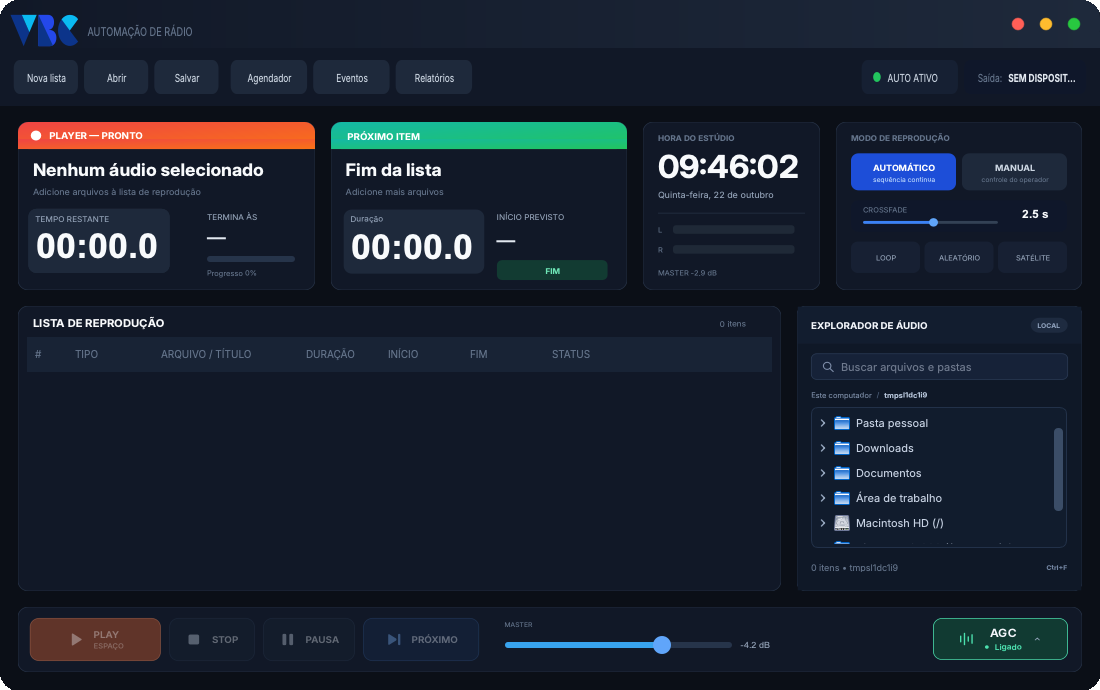
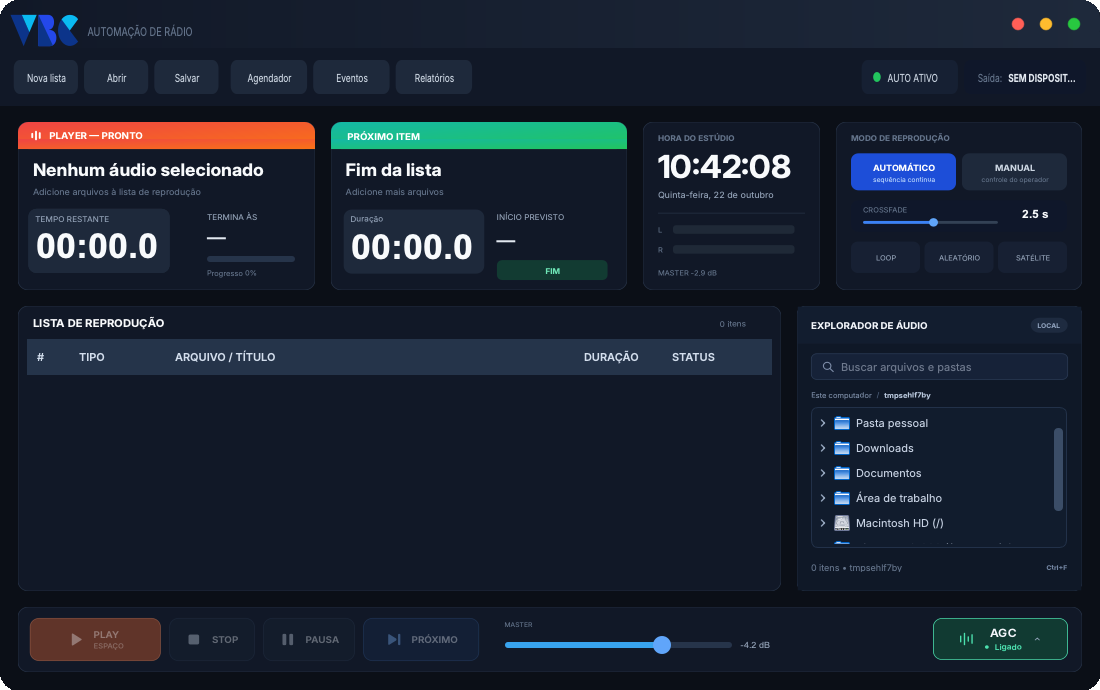
correção na visualização

Changed region(s): [[0.0309, 0.487, 0.7109, 0.5478], [0.5873, 0.213, 0.7418, 0.2739]]

diff --git a/vbc_player/pages/player/widgets/playlist.py b/vbc_player/pages/player/widgets/playlist.py
@@ -1,9 +1,9 @@
 from pathlib import Path
 
 from PySide6.QtCore import QRectF, Qt, Signal
-from PySide6.QtGui import QColor
+from PySide6.QtGui import QColor, QFont, QFontMetricsF, QPainter, QPen
 from PySide6.QtWidgets import (
-    QAbstractItemView, QFileDialog, QStyledItemDelegate,
+    QAbstractItemView, QFileDialog, QHeaderView, QStyledItemDelegate,
     QTableWidget, QTableWidgetItem,
 )
 
@@ -73,12 +73,28 @@ class PlaylistItemDelegate(QStyledItemDelegate):
         color = background.color() if background is not None else QColor("#111827")
         painter.save()
         painter.fillRect(option.rect, color)
-        painter.setPen(QColor("#cbd5e1"))
-        painter.drawText(
-            option.rect.adjusted(8, 0, -8, 0),
-            Qt.AlignmentFlag.AlignLeft | Qt.AlignmentFlag.AlignVCenter,
-            str(index.data(Qt.ItemDataRole.DisplayRole) or ""),
-        )
+        painter.setPen(QPen(QColor("#29364a"), 1))
+        painter.drawLine(option.rect.bottomLeft(), option.rect.bottomRight())
+        column = index.column()
+        font = QFont(option.font)
+        font.setPixelSize(14 if column == 2 else 12 if column in (0, 1, 6) else 13)
+        font.setWeight(QFont.Weight.DemiBold if column in (1, 2, 6) else QFont.Weight.Medium)
+        painter.setFont(font)
+        value = str(index.data(Qt.ItemDataRole.DisplayRole) or "")
+        rect = option.rect.adjusted(10, 0, -10, 0)
+        text_color = "#f1f5f9" if column == 2 else "#d3deed"
+        alignment = Qt.AlignmentFlag.AlignLeft if column in (1, 2) else Qt.AlignmentFlag.AlignHCenter
+        if column == 6:
+            painter.setRenderHint(QPainter.RenderHint.Antialiasing)
+            badge = QRectF(rect.x(), rect.center().y() - 12, rect.width(), 24)
+            background, text_color = {"NO AR": ("#6d293b", "#ffe1e6"), "PRÓXIMO": ("#155542", "#9af2cf")}.get(value, ("#25344a", "#d3deed"))
+            painter.setPen(Qt.PenStyle.NoPen)
+            painter.setBrush(QColor(background))
+            painter.drawRoundedRect(badge, 6, 6)
+            rect = rect.adjusted(5, 0, -5, 0)
+        painter.setPen(QColor(text_color))
+        value = QFontMetricsF(font).elidedText(value, Qt.TextElideMode.ElideRight, rect.width())
+        painter.drawText(rect, alignment | Qt.AlignmentFlag.AlignVCenter, value)
         painter.restore()
 
 
@@ -106,30 +122,41 @@ class PlaylistWidget(DesignPanel):
                 background: #111827;
                 border: 0;
                 padding: 0;
-                font-size: 11px;
+                font-size: 14px;
                 outline: 0;
                 selection-color: #f4f7fc;
             }
             QHeaderView::section {
-                background: #182335;
-                color: #64748b;
+                background: #25344a;
+                color: #d3deed;
                 border: 0;
-                padding: 8px;
-                font-size: 10px;
+                padding: 10px;
+                font-size: 11px;
+                font-weight: 600;
             }
             QTableWidget::item {
                 padding: 4px;
                 border: 0;
             }
+            QTableWidget QScrollBar:vertical{background:#131e2e;width:9px;margin:0;border:0;}
+            QTableWidget QScrollBar::handle:vertical{background:#526782;border-radius:4px;min-height:26px;}
+            QTableWidget QScrollBar::handle:vertical:hover{background:#7189a8;}
+            QTableWidget QScrollBar::add-line:vertical,QTableWidget QScrollBar::sub-line:vertical{
+                height:0;border:0;background:transparent;}
+            QTableWidget QScrollBar::add-page:vertical,QTableWidget QScrollBar::sub-page:vertical{
+                background:transparent;}
         """)
         self.table.horizontalHeader().setDefaultAlignment(Qt.AlignmentFlag.AlignLeft | Qt.AlignmentFlag.AlignVCenter)
-        self.table.horizontalHeader().setStretchLastSection(True)
+        self.table.horizontalHeader().setStretchLastSection(False)
+        self.table.horizontalHeader().setSectionResizeMode(QHeaderView.ResizeMode.Fixed)
+        self.table.horizontalHeader().setSectionResizeMode(2, QHeaderView.ResizeMode.Stretch)
+        self.table.horizontalHeader().setFixedHeight(36)
         self.table.setAccessibleName("Lista de reprodução")
         self.table.cellDoubleClicked.connect(lambda row, _col: service.play_index(row))
         self.table.itemSelectionChanged.connect(self._selected)
         self.table.hovered_row_changed.connect(self._hovered)
         self.table.paths_dropped.connect(self.add_tracks)
-        self.add_control(self.table, QRectF(12, 44, 986, 312))
+        self.add_control(self.table, QRectF(12, 46, 986, 342))
         self.table.hide()
         service.queue_changed.connect(self.refresh)
         self.setToolTip("Arraste arquivos de áudio ou pastas do explorador para adicionar à lista.")
@@ -180,7 +207,7 @@ class PlaylistWidget(DesignPanel):
             return QColor("#1e293b")
         if row == self.hovered_row:
             return QColor("#192538")
-        return QColor("#141d2b" if row % 2 == 0 else "#111827")
+        return QColor("#1b283b" if row % 2 == 0 else "#131e2e")
 
     def _apply_row_colors(self):
         for row in range(self.table.rowCount()):
@@ -203,13 +230,24 @@ class PlaylistWidget(DesignPanel):
             values = [f"{row+1:02d}", track.kind, track.title, duration, track.start, track.end, track.status]
             for col, value in enumerate(values):
                 item = QTableWidgetItem(value)
+                item.setToolTip(f"{track.title}\n{track.path}" if col == 2 and track.path else value)
                 self.table.setItem(row, col, item)
-            self.table.setRowHeight(row, 46)
+            self.table.setRowHeight(row, 52)
         self._apply_row_colors()
-        self.table.setColumnWidth(0, 40)
-        self.table.setColumnWidth(1, 86)
-        self.table.setColumnWidth(2, max(140, self.table.width()-480))
-        for col in (3,4,5,6):
-            self.table.setColumnWidth(col, 82)
+        self._layout_columns()
         self.set_text("17:483", f"{len(self.service.tracks)} itens")
         self.update()
+
+    def _layout_columns(self):
+        # Em janelas menores, prioriza título/duração/status; horários
+        # reaparecem quando houver espaço para todas as colunas.
+        compact = self.table.width() < 850
+        for column in (4, 5):
+            self.table.setColumnHidden(column, compact)
+        for column, width in ((0, 42), (1, 96), (3, 88), (4, 88), (5, 88), (6, 110)):
+            self.table.setColumnWidth(column, width)
+
+    def resizeEvent(self, event):
+        super().resizeEvent(event)
+        if hasattr(self, "table"):
+            self._layout_columns()

diff --git a/vbc_player/pages/player/widgets/deck.py b/vbc_player/pages/player/widgets/deck.py
@@ -1,7 +1,7 @@
 from datetime import datetime, timedelta
 
-from PySide6.QtCore import QRectF, Qt
-from PySide6.QtGui import QColor, QPainter
+from PySide6.QtCore import QPointF, QRectF, Qt
+from PySide6.QtGui import QColor, QPainter, QPen
 from PySide6.QtMultimedia import QMediaPlayer
 from PySide6.QtWidgets import QProgressBar, QSlider
 
@@ -42,6 +42,7 @@ class DeckWidget(DesignPanel):
         service.track_changed.connect(self._track_changed)
         service.queue_changed.connect(self._queue_changed)
         if on_air:
+            self.hidden.add("17:420")
             self.nodes["17:421"]["b"][2] = self.design_width - self.local_rect("17:421").x() - 18
             service.player.positionChanged.connect(self._position_changed)
             service.player.playbackStateChanged.connect(self._state_changed)
@@ -73,6 +74,20 @@ class DeckWidget(DesignPanel):
             self.seek.sliderReleased.connect(lambda: service.player.setPosition(round(service.player.duration()*self.seek.value()/1000)))
             self.add_control(self.seek, self.local_rect("17:428").adjusted(0, -8, 0, 8))
         self._queue_changed()
+
+    def paintEvent(self, event):
+        super().paintEvent(event)
+        if self.on_air:
+            painter = QPainter(self)
+            painter.setRenderHint(QPainter.RenderHint.Antialiasing)
+            painter.scale(self.width() / self.design_width, self.height() / self.design_height)
+            icon = self.local_rect("17:420")
+            painter.setPen(QPen(QColor("#ffffff"), 2.5, Qt.PenStyle.SolidLine, Qt.PenCapStyle.RoundCap))
+            for x, height in ((2, 5), (7, 11), (12, 7)):
+                center = icon.center().y()
+                painter.drawLine(QPointF(icon.x() + x, center - height / 2),
+                                 QPointF(icon.x() + x, center + height / 2))
+            painter.end()
 
     def _track_changed(self, track):
         if self.on_air:
